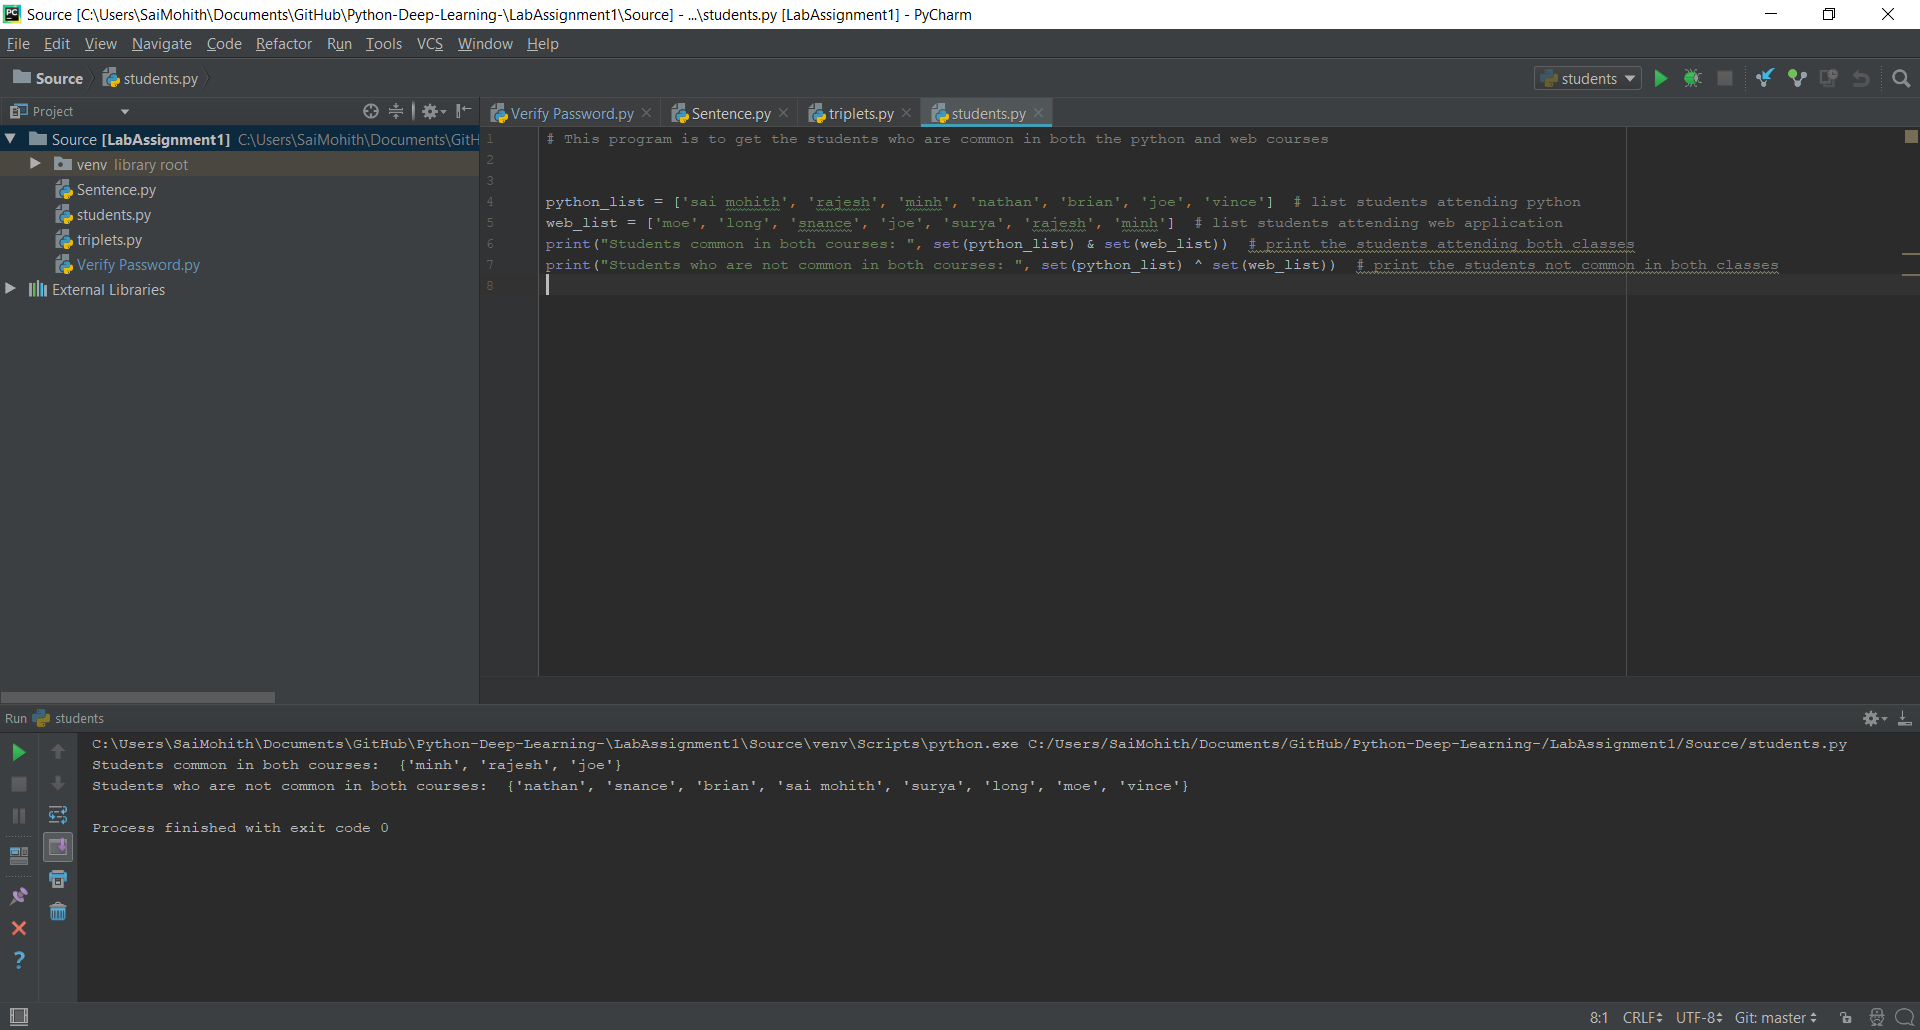
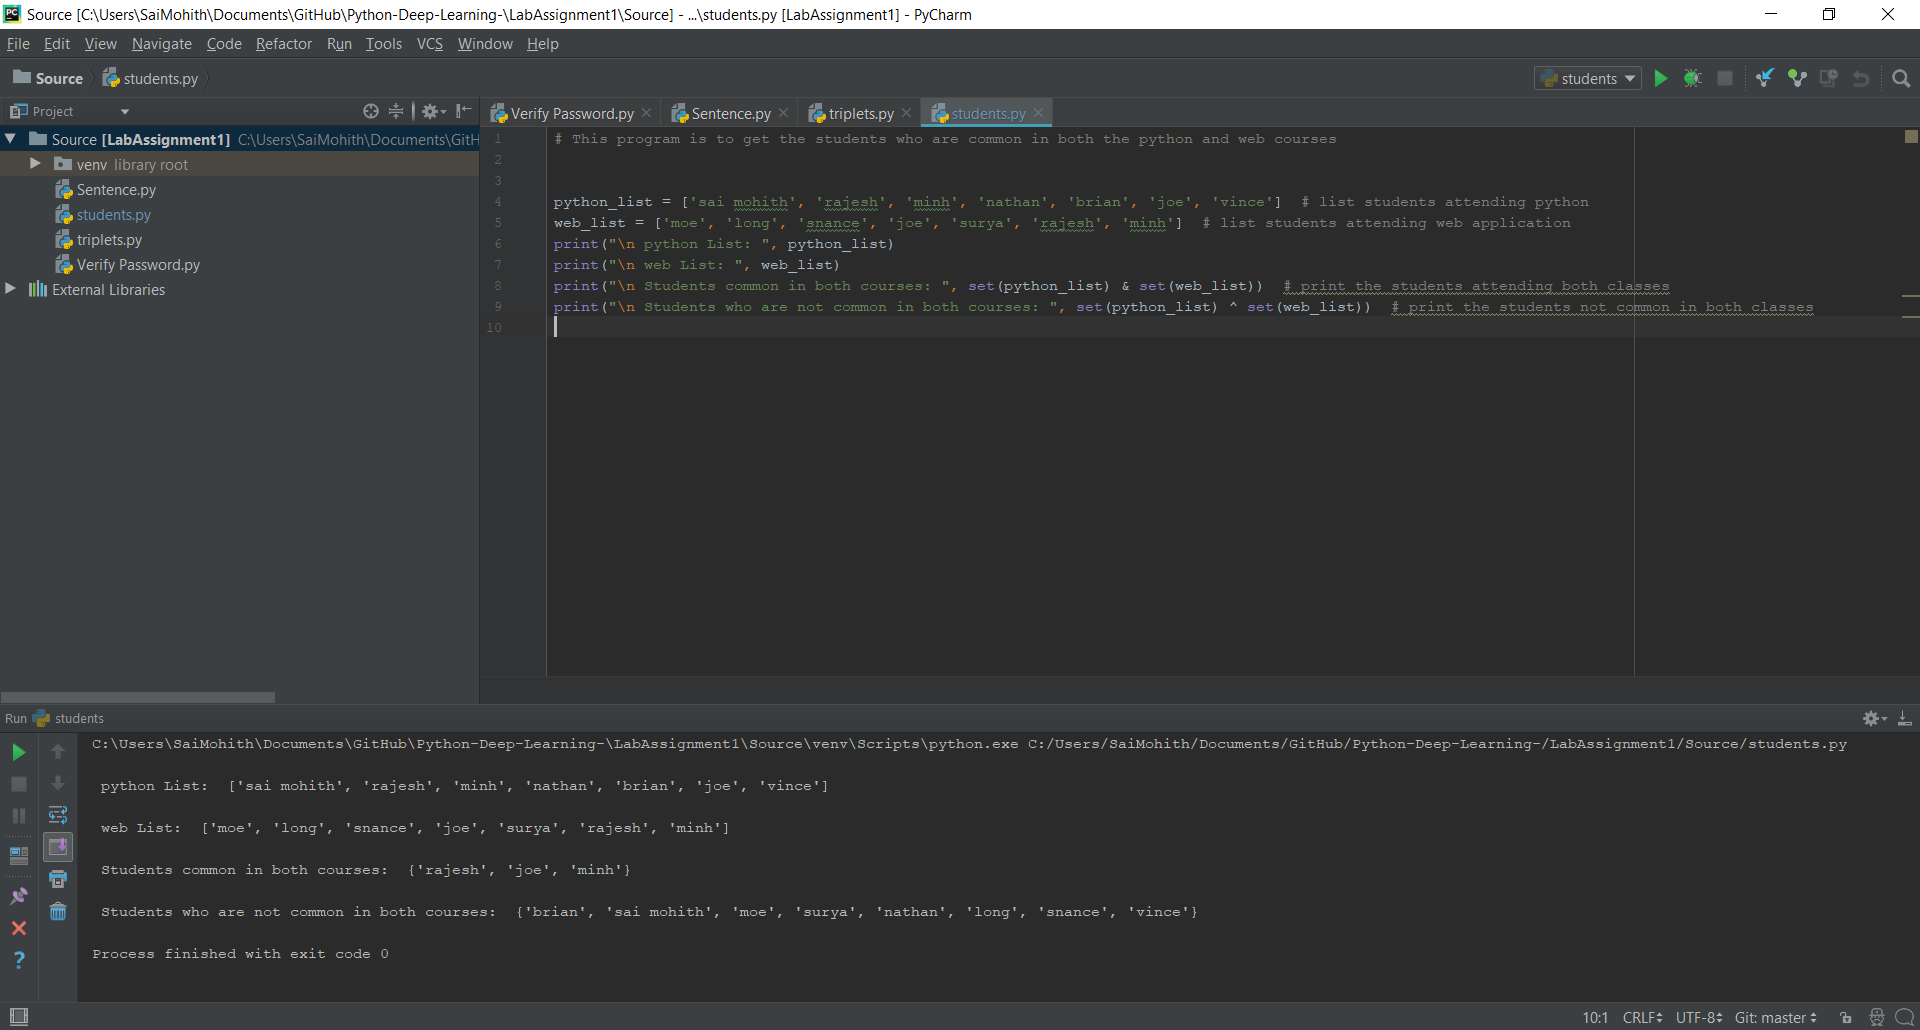
final

diff --git a/LabAssignment1/Source/students.py b/LabAssignment1/Source/students.py
@@ -3,5 +3,7 @@
 
 python_list = ['sai mohith', 'rajesh', 'minh', 'nathan', 'brian', 'joe', 'vince']  # list students attending python
 web_list = ['moe', 'long', 'snance', 'joe', 'surya', 'rajesh', 'minh']  # list students attending web application
+print("\n python List: ", python_list)  # prints the list of students in python course
+print("\n web List: ", web_list)  # prints the list of students in web course
 print("\n Students common in both courses: ", set(python_list) & set(web_list))  # print the students attending both classes
 print("\n Students who are not common in both courses: ", set(python_list) ^ set(web_list))  # print the students not common in both classes

diff --git a/LabAssignment1/Source/triplets.py b/LabAssignment1/Source/triplets.py
@@ -2,6 +2,7 @@
 
 
 def triplets(numbers):  # define a function which takes the number sequences as input
+    print("\n Given Sequence: ", numbers)  # prints the given input
     l = len(numbers)  # get the length of the list
     t_list = []  # creates a tuple to store the triplets
     for x in range(0, l-2):  # runs for loop until index is l-2
